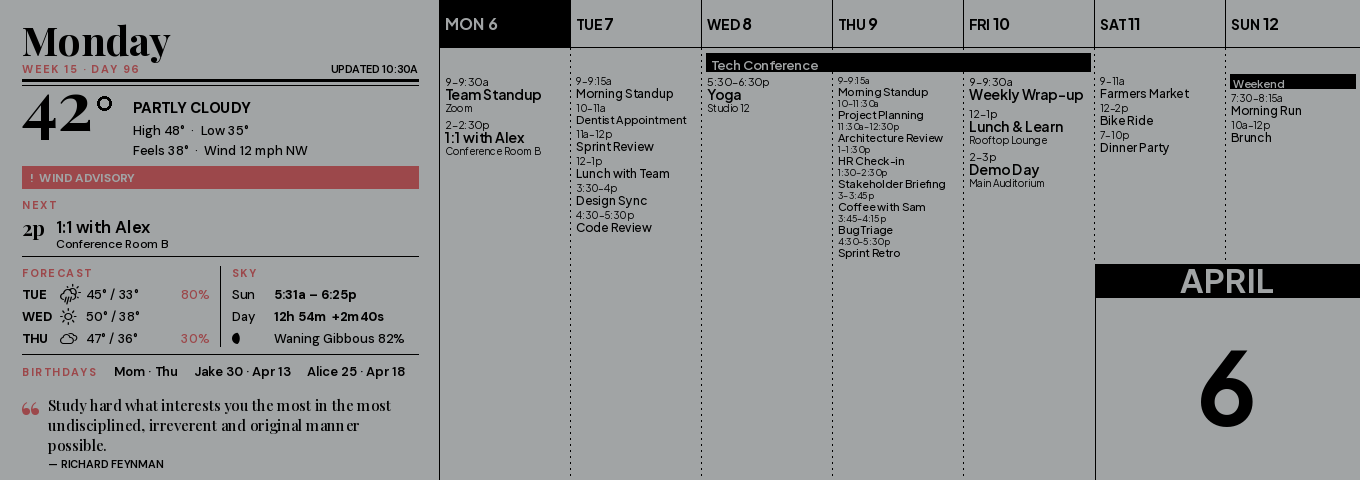
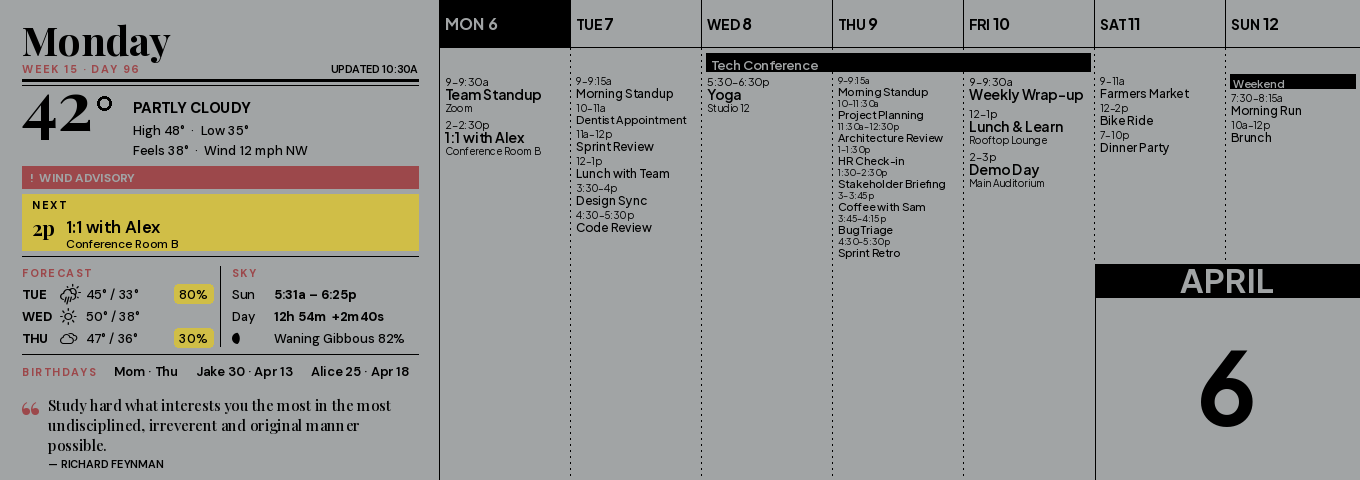
wide_week rail: yellow as a highlighter behind ink type
The rail's colour now has one job per ink. Red (the primary accent) keeps
labels and warnings; yellow (the resolved accent_warn) is used only as a
fill behind black type: a band under NOW/NEXT, chips under each rainy
day's chance of rain (previously red text, which diluted the alert red),
and a birthday falling today. Never yellow type or rules — the weakest
contrast the four inks give. highlight() returns None where accent_warn
resolves to ink, so on a monochrome panel the fills drop out and the type
stays black. The theme's secondary accent is left alone on purpose: the
week grid draws its weekend headers' text in it.

Claude-Session: https://claude.ai/code/session_014tzDQ2KFBUpoGD9KjokJEt

Changed region(s): [[0.0, 0.4062, 0.3088, 0.5312], [0.1235, 0.5938, 0.3088, 0.7812]]

diff --git a/src/render/components/wide_week_rail_panel.py b/src/render/components/wide_week_rail_panel.py
@@ -23,9 +23,14 @@ quote. Top to bottom:
   * **Quote** — the day's quote set large, a hanging accent quote mark, the
     author in small caps.
 
-Everything is drawn with the theme style's ``fg``/``bg`` and its primary
-accent, so the rail renders in red and black on a colour panel and in ink on a
-monochrome one, like the grid beside it.
+Colour has two jobs here, one per accent ink. **Red** (the primary accent) is
+for labels and warnings: section labels, the stale mark, the alert bar.
+**Yellow** (the resolved ``accent_warn``) is a highlighter and never ink —
+yellow type or rules on paper are the weakest contrast the four inks give, so
+it only ever sits *behind* black type: the NOW/NEXT band, the chance-of-rain
+chips, a birthday falling today. On a monochrome panel ``accent_warn`` resolves
+to ink, ``highlight()`` returns ``None``, and each of those falls back to plain
+black type on paper.
 """
 
 from __future__ import annotations
@@ -60,6 +65,7 @@ FORECAST_DAYS = 3
 QUOTE_PTS = (19, 17, 16, 15)  # tried largest first until the quote fits its space
 AUTHOR_H = 16
 SKY_LABEL_W = 42
+BAND_INSET = 10  # the NOW/NEXT type's inset inside its highlighter band
 
 # Section tops, relative to the region. Fixed rather than flowed, so the rules
 # land in the same place every day and the column reads as a page, not a list.
@@ -116,8 +122,8 @@ def when_label(kind: str, evt: CalendarEvent, now: datetime) -> str:
     return f"{evt.start.strftime('%a')} {fmt_time(evt.start)}"
 
 
-def birthday_line(birthdays: list[Birthday], today: date) -> str:
-    """Birthdays in the next two weeks, soonest first: ``Mom · Thu   Jake 30 · Mon``."""
+def birthday_entries(birthdays: list[Birthday], today: date) -> list[tuple[str, bool]]:
+    """Birthdays in the next two weeks, soonest first, as ``(text, is_today)``."""
     rows = []
     for b in birthdays:
         when = next_birthday(b.date, today)
@@ -133,9 +139,17 @@ def birthday_line(birthdays: list[Birthday], today: date) -> str:
         else:
             label = when.strftime("%b %-d")
         name = b.name if b.age is None else f"{b.name} {b.age}"
-        rows.append((when, f"{name} · {label}"))
+        rows.append((when, f"{name} · {label}", days == 0))
     rows.sort(key=lambda r: r[0])
-    return "     ".join(text for _, text in rows)
+    return [(text, is_today) for _, text, is_today in rows]
+
+
+BIRTHDAY_GAP = 18
+
+
+def birthday_line(birthdays: list[Birthday], today: date) -> str:
+    """The birthday entries as one line: ``Mom · Thu     Jake 30 · Mon``."""
+    return "     ".join(text for text, _ in birthday_entries(birthdays, today))
 
 
 def sky_rows(
@@ -209,11 +223,24 @@ def fit_quote(text: str, width: int, height: int) -> tuple[int, list[str]]:
 # ---------------------------------------------------------------------------
 
 
-def _label(draw, x: float, y: float, text: str, style: ThemeStyle) -> None:
-    """A section label: small caps in the accent, letter-spaced."""
+def highlight(style: ThemeStyle):
+    """The highlighter fill (yellow), or ``None`` on a plate that has no such ink.
+
+    ``accent_warn`` resolves to yellow on the colour panels and to ink on a
+    monochrome one; a fill in ink behind ink type would black the type out.
+    """
+    fill = style.accent_warn
+    if fill is None or fill == style.fg:
+        return None
+    return fill
+
+
+def _label(draw, x: float, y: float, text: str, style: ThemeStyle, fill=None) -> None:
+    """A section label: small caps, letter-spaced, in the accent unless *fill* says."""
     font = fonts.dm_bold(11)
+    fill = style.primary_accent_fill() if fill is None else fill
     for ch in text:
-        draw.text((x, y), ch, font=font, fill=style.primary_accent_fill())
+        draw.text((x, y), ch, font=font, fill=fill)
         x += font.getlength(ch) + 1.6
 
 
@@ -319,23 +346,33 @@ def draw_wide_week_rail(
 
     # Now / next ---------------------------------------------------------------
     ny = top + NEXT_Y
+    hi = highlight(style)
+    if hi is not None:
+        # The rail's most glanceable line gets the highlighter: black type on
+        # a yellow band, flush with the column like the alert bar above it.
+        draw.rectangle((x0, ny - 4, x1, top + NEXT_RULE_Y - 6), fill=hi)
     found = now_or_next(data.events, local_now)
+    # Red on yellow vibrates; on the band the label is set in ink, and the
+    # section is inset so its type does not touch the band's edges.
+    label_fill = fg if hi is not None else None
+    inset = BAND_INSET if hi is not None else 0
+    nx, nx1 = x0 + inset, x1 - inset
     if found is None:
-        _label(draw, x0, ny, "NEXT", style)
-        draw.text((x0, ny + 18), "Nothing scheduled", font=fonts.playfair_medium(20), fill=fg)
+        _label(draw, nx, ny, "NEXT", style, label_fill)
+        draw.text((nx, ny + 18), "Nothing scheduled", font=fonts.playfair_medium(20), fill=fg)
     else:
         kind, evt = found
-        _label(draw, x0, ny, kind, style)
+        _label(draw, nx, ny, kind, style, label_fill)
         when = when_label(kind, evt, local_now)
         when_font = fonts.playfair_bold(20)
-        draw.text((x0, ny + 16), when, font=when_font, fill=fg)
-        tx = x0 + text_width(draw, when, when_font) + 12
+        draw.text((nx, ny + 16), when, font=when_font, fill=fg)
+        tx = nx + text_width(draw, when, when_font) + 12
         draw_text_truncated(
-            draw, (tx, ny + 18), evt.summary, fonts.dm_semibold(17), x1 - tx, fill=fg
+            draw, (tx, ny + 18), evt.summary, fonts.dm_semibold(17), nx1 - tx, fill=fg
         )
         if evt.location:
             draw_text_truncated(
-                draw, (tx, ny + 38), evt.location, fonts.dm_medium(12), x1 - tx, fill=fg
+                draw, (tx, ny + 38), evt.location, fonts.dm_medium(12), nx1 - tx, fill=fg
             )
     _hairline(draw, x0, x1, top + NEXT_RULE_Y, style)
 
@@ -355,13 +392,16 @@ def draw_wide_week_rail(
             hl = f"{round(day.high)}° / {round(day.low)}°"
             draw.text((x0 + 64, ry), hl, font=row_font, fill=fg)
             if day.precip_chance is not None and day.precip_chance >= 0.2:
+                # Rain is not an alarm, so not red: a yellow chip behind ink
+                # type, or plain ink where the panel has no yellow.
                 pct = f"{round(day.precip_chance * 100)}%"
-                draw.text(
-                    (mid - 10 - text_width(draw, pct, row_font), ry),
-                    pct,
-                    font=row_font,
-                    fill=accent,
-                )
+                pw = text_width(draw, pct, row_font)
+                px = mid - 12 - pw
+                if hi is not None:
+                    draw.rounded_rectangle(
+                        (px - 5, ry - 2, px + pw + 5, ry + 17), radius=4, fill=hi
+                    )
+                draw.text((px, ry), pct, font=row_font, fill=fg)
     sx = mid + 12
     rows = sky_rows(weather, today, latitude, longitude, tz)
     for i, (label, value) in enumerate(rows):
@@ -380,11 +420,21 @@ def draw_wide_week_rail(
 
     # Birthdays ------------------------------------------------------------------
     by = top + BIRTHDAY_Y
-    line = birthday_line(data.birthdays, today)
-    if line:
+    entries = birthday_entries(data.birthdays, today)
+    if entries:
         _label(draw, x0, by + 2, "BIRTHDAYS", style)
+        bfont = fonts.dm_semibold(13)
         lx = x0 + 92
-        draw_text_truncated(draw, (lx, by), line, fonts.dm_semibold(13), x1 - lx, fill=fg)
+        for i, (text, is_today) in enumerate(entries):
+            tw = text_width(draw, text, bfont)
+            if lx + tw > x1:
+                if i == 0:  # a single entry too long for the line is cut, not dropped
+                    draw_text_truncated(draw, (lx, by), text, bfont, x1 - lx, fill=fg)
+                break
+            if is_today and hi is not None:
+                draw.rounded_rectangle((lx - 5, by - 2, lx + tw + 5, by + 17), radius=4, fill=hi)
+            draw.text((lx, by), text, font=bfont, fill=fg)
+            lx += tw + BIRTHDAY_GAP
 
     # Quote ------------------------------------------------------------------------
     quote = quote_for(today, refresh=quote_refresh, now=now, path=quotes_path)

diff --git a/tests/test_wide_week_rail.py b/tests/test_wide_week_rail.py
@@ -14,11 +14,11 @@ import pytest
 
 from src.config import DisplayConfig
 from src.data.models import Birthday, CalendarEvent, DashboardData, WeatherAlert, WeatherData
-from src.display.driver import image_hash
+from src.display.driver import WAVESHARE_G_PALETTE, image_hash
 from src.dummy_data import generate_dummy_data
 from src.render.canvas import render_dashboard
 from src.render.components import wide_week_rail_panel as rail
-from src.render.theme import load_theme
+from src.render.theme import INKY_YELLOW, load_theme
 from tests.inkutils import ink
 
 NATIVE = DisplayConfig(provider="waveshare", model="epd7in5_V2", width=1360, height=480)
@@ -46,6 +46,20 @@ def _weather(**kw) -> WeatherData:
     )
     base.update(kw)
     return WeatherData(**base)
+
+
+G = DisplayConfig(provider="waveshare", model="epd10in85g", width=1360, height=480)
+YELLOW = WAVESHARE_G_PALETTE[2]  # the G panel's inks: black, white, yellow, red
+assert INKY_YELLOW == 2
+
+
+def _render_g(data: DashboardData, now: datetime = NOW):
+    data.fetched_at = now
+    return render_dashboard(data, G, theme=load_theme("wide_week")).convert("RGB")
+
+
+def _yellow(img, box) -> int:
+    return sum(n for n, px in img.crop(box).getcolors(1 << 16) if px == YELLOW)
 
 
 def _render(data: DashboardData, now: datetime = NOW):
@@ -120,6 +134,12 @@ class TestBirthdayLine:
         assert rail.birthday_line(bdays, today) == (
             "Me · today     Kid 6 · tomorrow     Mom · Thu     Alice 26 · Apr 18"
         )
+
+    def test_entries_flag_today(self):
+        entries = rail.birthday_entries(
+            [Birthday("Mom", date(1960, 4, 9)), Birthday("Me", date(1985, 4, 6))], date(2026, 4, 6)
+        )
+        assert entries == [("Me · today", True), ("Mom · Thu", False)]
 
     def test_none_in_range_is_empty(self):
         assert rail.birthday_line([Birthday("X", date(1990, 9, 1))], date(2026, 4, 6)) == ""
@@ -205,3 +225,48 @@ class TestRender:
         assert ink(img, (RAIL.w, 60, RAIL.w + 4, 200)) == ink(
             _render(DashboardData()), (RAIL.w, 60, RAIL.w + 4, 200)
         )
+
+
+class TestYellowHighlighter:
+    """Yellow is only ever a fill behind ink type, and only where the panel has it."""
+
+    FORECAST = (0, rail.GRID_Y, RAIL.w // 2, rail.GRID_RULE_Y)
+    BIRTHDAYS = (0, rail.BIRTHDAY_Y - 3, RAIL.w - 2, rail.BIRTHDAY_Y + 19)
+
+    def test_resolves_to_none_where_it_would_be_ink(self):
+        style = load_theme("wide_week").style
+        assert rail.highlight(style) is None  # unresolved: accent_warn unset
+        from dataclasses import replace
+
+        assert rail.highlight(replace(style, accent_warn=style.fg)) is None
+        assert rail.highlight(replace(style, accent_warn=(255, 255, 0))) == (255, 255, 0)
+
+    def test_now_next_sits_on_a_yellow_band(self):
+        img = _render_g(DashboardData(events=[_event("Review", datetime(2026, 4, 6, 14))]))
+        band = NEXT_BAND
+        area = (band[2] - band[0]) * (band[3] - band[1])
+        assert _yellow(img, band) > area * 0.6
+
+    def test_rain_chips_only_on_wet_days(self):
+        from src.data.models import DayForecast
+
+        def forecast(pop):
+            days = [DayForecast(date(2026, 4, 7 + i), 50, 40, "10d", "rain", pop) for i in range(3)]
+            return DashboardData(weather=_weather(forecast=days))
+
+        dry = _render_g(forecast(0.05))
+        wet = _render_g(forecast(0.8))
+        assert _yellow(dry, self.FORECAST) == 0
+        assert _yellow(wet, self.FORECAST) > 3 * 300
+
+    def test_a_birthday_today_is_highlighted_and_others_are_not(self):
+        soon = _render_g(DashboardData(birthdays=[Birthday("Mom", date(1960, 4, 9))]))
+        today = _render_g(DashboardData(birthdays=[Birthday("Mom", date(1960, 4, 6))]))
+        assert _yellow(soon, self.BIRTHDAYS) == 0
+        assert _yellow(today, self.BIRTHDAYS) > 300
+
+    def test_monochrome_keeps_the_type_without_fills(self):
+        img = _render(DashboardData(events=[_event("Review", datetime(2026, 4, 6, 14))]))
+        # No band: the NEXT area is mostly paper, with the type still in ink.
+        area = (NEXT_BAND[2] - NEXT_BAND[0]) * (NEXT_BAND[3] - NEXT_BAND[1])
+        assert 200 < ink(img, NEXT_BAND) < area * 0.3

diff --git a/CLAUDE.md b/CLAUDE.md
@@ -498,7 +498,7 @@ default to `None` and fall back gracefully so adding a new field never breaks ex
 - Supported display providers/models: `waveshare` → `epd7in5` (640×384), `epd7in5_V2` (800×480, default), `epd7in5b_V2` (800×480, tri-colour, rendered B/W), `epd7in5_HD` (880×528), `epd13in3k` (960×680), `epd10in85g` (1360×480, four inks); `inky` → `impression_7_3_2025` (800×480). Set via `display.provider` + `display.model`; canvas renders at 800×480 (1360×480 for the `wide_*` themes) and scales when needed. **Every Waveshare entry must name a module that exists in the vendor `waveshare_epd` library and carry that driver's `EPD_WIDTH`/`EPD_HEIGHT`** — `epd13in3k` was registered at 1600×1200 while the driver is 960×680, and `getbuffer()` silently returns a blank buffer on a size mismatch, so the panel stayed white with no error; `epd9in7` and `epd7in5_V3` were listed but no such modules exist upstream (the 9.7" panel is IT8951-driven), so selecting them failed at import (#266). Check the vendor repo before adding a model.
 - **The Waveshare 10.85" (G) is a colour model inside the Waveshare provider.** `WAVESHARE_COLOR_MODELS` in `src/display/driver.py` maps `epd10in85g` to `WAVESHARE_G_PALETTE` (black, white, yellow, red — the order the G drivers' `getbuffer()` packs, 2 bits per pixel); its `DisplaySpec` has `render_mode="RGB"`, `palette` set, `supports_partial_refresh=False`, and `is_color` true. Themes are drawn in colour for it exactly as for Inky, but against `WAVESHARE_G_STYLE_PALETTE` (`src/render/quantize.py`): the six Spectra-6 style indices with blue and green folded onto black, and pure white as the ground rather than Inky's measured (161,164,165) — the ground matters because the final `quantize_to_palette_nearest()` is a hard cut, and pure white puts an antialiased glyph edge at the same mid-grey threshold the 1-bit path uses, so type keeps its weight. For neutral greys the nearest of the four inks is provably black or white (yellow needs the blue channel low, red needs green low), so no resize blur or antialiasing ever lands on a coloured ink; that is why the snap is not a dither. `WaveshareDisplay` forces `enable_partial=False` for colour models (the G drivers have no `init_fast()`) and hands the RGB image to `epd.getbuffer()`, whose own palette mapping is then exact. The module path `waveshare_epd.epd10in85g` follows the G-family convention (`epd7in3g`, `epd4in37g`) — it is the one line to touch if the panel's shipped library names it differently.
 - **`display.scaling` decides how an off-size canvas reaches the panel** (`fit_canvas()` in `src/display/backend.py`). Every version so far stretched, and `auto` (the default) still does unless `distortion()` — the ratio between the panel's aspect and the canvas's — exceeds `FIT_DISTORTION_THRESHOLD` (4/3): a 4:3 `epd13in3k` is 1.25 and renders byte-identically to before, the 1360×480 strip is 1.7 and fits. `fit` pads with the theme's `bg`, passed to the backend as `background=` in the canvas's own mode (`pad_value()` converts it); `stretch` and `fit` are explicit overrides, and an unknown value behaves as `auto` at render time while `validate_config()` reports it. The backend tests build their config as a `MagicMock`, which is why `resolve_scaling()` treats anything but the two explicit strings as auto rather than raising.
-- **The `wide_*` themes declare a 1360×480 canvas** (`wide_week`, `wide_day`, `wide_forecast`, `wide_horizon`, `halftone_agenda_wide`) and are the reason previews are rendered at the theme's canvas size when its *shape* differs from the panel's (`scripts/build_previews.py` swaps `cfg.display` width/height for the layout's only on an aspect mismatch — a supersampled 1600×960 canvas keeps the panel's 800×480 and its downsample) — on an 800×480 config they letterbox to a 800×282 band, which is what the pixel-snapshot and idle-tick suites hash. They are kept out of a random rotation on a panel of the other shape: `random_theme.eligible_themes(..., panel=)` drops any theme whose canvas would be fitted with padding there (`theme_fits_panel`, the same `FIT_DISTORTION_THRESHOLD` test `display.scaling: auto` applies), and `services/theme.py` and `validate_config` pass the configured panel. `OutputService` keys its default cooldown on the display spec, not the provider string, so a colour Waveshare model gets Inky's 60 s rather than the mono 0 s. `primitives.next_birthday()` is the one home of the Feb 29 → Feb 28 rollover; `birthday_bar`, `almanac`, `wide_day_panel` and `halftone_agenda_wide_panel` all call it. `wide_week` is the standard `week_view` on the right (920 px, full height, no header) beside `wide_week_rail_panel.py`, a 440-px broadsheet rail (Playfair Display, accent small-caps labels, hairline rules; section tops are fixed constants so the rules land in the same place daily) whose NOW/NEXT line is its one clock-driven element, moving only at event boundaries (hence `EXTRA_EVENT_DAYS["wide_week"] = 1`); the rail's quote is Playfair **Medium**, since the Regular's hairlines break up on a 1-bit plate, and its sky rows reuse `wide_horizon_panel.sun_zone` for naive preview clocks; `wide_day` (`wide_day_panel.py`) packs bars into lanes by `pack_lanes()` over *bar-plus-label* pixel extents, not time spans — a thirty-minute meeting is 24 px on a sixteen-hour axis, so packing by time alone left a busy day as one lane of anonymous boxes — and is in `TIME_DRIVEN` (NOW marker) and `THEMES_NEEDING_TOMORROW` (its UP NEXT rail). `wide_forecast` (`wide_forecast_panel.py`) is idle-stable; its yellow precipitation fill is drawn only when `secondary_accent_fill()` differs from `fg` (`_tint()`), because on a monochrome plate a fill behind ink text is unreadable. All three name only red/yellow/black accents so the Inky preview and the four-ink panel agree.
+- **The `wide_*` themes declare a 1360×480 canvas** (`wide_week`, `wide_day`, `wide_forecast`, `wide_horizon`, `halftone_agenda_wide`) and are the reason previews are rendered at the theme's canvas size when its *shape* differs from the panel's (`scripts/build_previews.py` swaps `cfg.display` width/height for the layout's only on an aspect mismatch — a supersampled 1600×960 canvas keeps the panel's 800×480 and its downsample) — on an 800×480 config they letterbox to a 800×282 band, which is what the pixel-snapshot and idle-tick suites hash. They are kept out of a random rotation on a panel of the other shape: `random_theme.eligible_themes(..., panel=)` drops any theme whose canvas would be fitted with padding there (`theme_fits_panel`, the same `FIT_DISTORTION_THRESHOLD` test `display.scaling: auto` applies), and `services/theme.py` and `validate_config` pass the configured panel. `OutputService` keys its default cooldown on the display spec, not the provider string, so a colour Waveshare model gets Inky's 60 s rather than the mono 0 s. `primitives.next_birthday()` is the one home of the Feb 29 → Feb 28 rollover; `birthday_bar`, `almanac`, `wide_day_panel` and `halftone_agenda_wide_panel` all call it. `wide_week` is the standard `week_view` on the right (920 px, full height, no header) beside `wide_week_rail_panel.py`, a 440-px broadsheet rail (Playfair Display, accent small-caps labels, hairline rules; section tops are fixed constants so the rules land in the same place daily) whose NOW/NEXT line is its one clock-driven element, moving only at event boundaries (hence `EXTRA_EVENT_DAYS["wide_week"] = 1`); the rail's quote is Playfair **Medium**, since the Regular's hairlines break up on a 1-bit plate, and its sky rows reuse `wide_horizon_panel.sun_zone` for naive preview clocks; colour is split by ink — red (primary accent) for labels and warnings, yellow (the resolved `accent_warn`) **only as a fill behind ink type** (NOW/NEXT band, rain chips, a birthday today), never as type or rules, and `highlight()` returns `None` where `accent_warn` resolves to `fg` (mono) so the fills drop out rather than blacking the type out — the grid's `secondary_accent_fill()` colours the weekend headers' *text*, so switching the theme's secondary accent to yellow would have put yellow type in the grid; `wide_day` (`wide_day_panel.py`) packs bars into lanes by `pack_lanes()` over *bar-plus-label* pixel extents, not time spans — a thirty-minute meeting is 24 px on a sixteen-hour axis, so packing by time alone left a busy day as one lane of anonymous boxes — and is in `TIME_DRIVEN` (NOW marker) and `THEMES_NEEDING_TOMORROW` (its UP NEXT rail). `wide_forecast` (`wide_forecast_panel.py`) is idle-stable; its yellow precipitation fill is drawn only when `secondary_accent_fill()` differs from `fg` (`_tint()`), because on a monochrome plate a fill behind ink text is unreadable. All three name only red/yellow/black accents so the Inky preview and the four-ink panel agree.
 - **Art regions are the one place a colour panel dithers.** A colour backend snaps every pixel to the nearest ink (`quantize_to_palette_nearest` on the G panel, the Inky driver at write time), which flattens an illustration's gradient to one ink while the same theme's greyscale path keeps its engraving. `RenderContext.dither_regions` is a list the adapter fills from the panel's pure `art_rect(region)` (`halftone`, `halftone_agenda`, `halftone_agenda_wide` and `day_arc` declare their art panes; the panel itself never sees the list, so it stays a pure function of its inputs), and `canvas.render_dashboard` passes it to `resize_and_finalize(..., dither_regions=...)`. `backend.dither_art_regions()` maps each rectangle through `placement()` — the same arithmetic `fit_canvas` uses, so a region declared in canvas coordinates lands on the fitted or stretched plate — cuts it from the resized canvas *before* the snap, Floyd-Steinberg-diffuses it onto the inks with `quantize_to_palette_fs`, and pastes it over the snapped plate. Floyd-Steinberg, not ordered Bayer: it is what the themes' L-mode path already uses, so the engraving matches across panels, and diffusion has no error to spread on an exact ink, so a solid yellow disc stays solid where a Bayer offset would speckle it. On Inky the target palette is `INKY_SPECTRA6_PALETTE` (the driver's measured values) so the write-time nearest mapping is the identity on the region. On the G panel the art helpers still fill with the measured Spectra values (`skyart.accent_yellow`, `artkit.accent_red` don't know the panel), so `G_EXACT_REMAP` substitutes each Spectra-6 value with the G ink at the same index *before* diffusion — diffusing (208,190,71) against (255,255,0) turned a solid sun disc 47% yellow. Neutral pixels diffuse against black and white only (`NEUTRAL_SPREAD`); diffusing them against the whole palette let accumulated error drift in hue and sprinkled a night sky with coloured dots. The mixing widens the perceived gamut only *inside* the hull of the inks — orange, pink, maroon, olive and greys on the G panel — and can never produce a blue or green there. Declaring a region that contains type will speckle it; the mono `WaveshareBackend` ignores the list because its whole plate already dithers.
 - **`wide_horizon` puts the next 72 hours on one axis** (`wide_horizon_panel.py`). The window starts at `window_start(now)` — the 3-hour forecast slot holding now — so the clock moves the plate at most eight times a day and the theme stays out of `TIME_DRIVEN`; the TODAY→TONIGHT switch keys on the slot for the same reason (and `header_label()` sets today's name as a caption in the date face when its slice is too narrow for a headline — never a shrunken headline, never the short weekday), and the hero's "updated" caption reads `content_time`. `TimeAxis` is piecewise-linear by clock hour (`hour_weight`: 23:00–06:00 at `NIGHT_WEIGHT`), ~19 px per waking hour against ~16 linear. The sky's colour per column is `astronomy.solar_altitude` at that column's time plus `HORIZON_GLOW_DEG` toward the band's bottom, mapped by `sky_field()` to **ordered dithers between pairs of inks** (white/yellow, yellow/red, red/black on colour; one black/white ramp on mono) from an 8×8 Bayer phased to canvas coordinates. Everything on the plate is an exact ink — tones are dithered here and type is set with `draw.fontmode = "1"` — so the four-ink snap and the mono threshold are the identity at native size. The sky is deliberately **not** an art region: `dither_art_regions()` is not the identity on a tile of exact inks (its neutral pass Floyd-Steinbergs the tile's luminance, flipping black/white pixels beside red and yellow), so declaring it speckled the plate on the panel it was drawn for — `test_native_pipeline_changes_nothing_but_the_ink_snap` pins this. The theme declares `ordered` quantization so a *scaled mono* panel re-screens rather than flattening a blurred dither (which also derives it out of partial refresh); small type on a scaled plate comes out screened, the accepted cost of a strip theme on the wrong shape. The temperature comes from `WeatherData.hourly` (the OWM 3-hour grid, kept by `weather._parse_hourly`); `daily_extremes` labels only real turning points, since the window cuts days at both ends. OWM's grid starts at the first 3-hour **UTC** boundary after the request, so it never lines up with the local slot the window opens on; `lead_in()` fills the gap with stand-in slots carrying the current reading and icon, and `dummy_data._dummy_hourly` starts its grid the same way OWM does so previews exercise it. A slot is three hours of real time but the axis is the wall clock, so every consumer takes slot ends from `slot_spans()` (each ends where the next begins, trusted within an hour of 3 h) — `start + 3 h` left an hour of the plate blank at spring-forward and overlapped slots at fall-back. Stand-ins are the reading now held flat, so `daily_extremes` and `outlook` take `real_from` (the first real slot) and never label or report one — without it an evening plate showed its flat stand-in as the day's "high". High/low labels go through `place_label()`, which slides a label off any sun or moon box (`_draw_suns`/`_draw_moons` return boxes, not x) toward the side nearer its point. Undrawn items (timed lanes past the space, all-day chips past `ALLDAY_MAX_ROWS`) are counted as `+N more` per day in a footer row reserved (`OVERFLOW_H`) only when something is hidden. Clouds/rain/snow/storm/fog are drawn per slot from its icon (`sky_kind`), seeded by the slot's clock hour so they travel with the window; an overcast or wet slot hides the sun at noon and the moon at transit (`sun_hidden`), and scattered clouds keep `SUN_CLEARANCE` off both. With a naive render clock (previews, snapshots) `sun_zone()` places the sun in the whole-hour zone the longitude implies instead of UTC. `EXTRA_EVENT_DAYS["wide_horizon"] = 3`.
 - **`halftone_agenda_wide` is `halftone_agenda` drawn for the strip, not a copy of it.** `halftone_agenda_wide_panel.py` imports the original's `_draw_weather_band`, `_sun_times`, `_clock`, `event_times`, `inline_range`, `two_line_time_fits`, `past_screen` and `_location_text` (private names, deliberately — the two plates must read out the same things, and a second copy of the band or the time-cell rules would drift). The agenda pane itself is this plate's own (`_draw_wide_agenda`), and it deliberately has **no state treatments** — no perforated past rows, no inverted running event, no next-up accent, no `NEXT` figure in the header: on the four-ink panel every repaint is a twenty-second colour flash and each treatment repaints at every event boundary, so the day is shown whole and the same from dawn to dusk, with the after-dark rollover the one clock-driven change (one repaint a day). `tests/test_halftone_agenda_wide_theme.py` pins that a render before, during and after an event is byte-identical. Colour keys on the *kind* of event instead — a timed event's tick is `artkit.accent_yellow_solid`, an all-day event's `accent_red` (outlined in ink on mono, where both accents are ink) — which costs no repaints; the colour-panel variant of that test pins it. Use `accent_yellow_solid`, not `skyart.accent_yellow`, for marks and type: the latter's L-mode fallback is a light grey that `harden_typeset` snaps to paper. What 520 px of width pays for — a header dateline with the day's totals (`booked_minutes` counts overlaps once), a **schedule strip** (`_draw_schedule_strip`, solid blocks whatever the hour), a duration column, `— Nh Nm free` gap markers between events at least `GAP_MIN_MINUTES` apart (`gap_after` measures from the latest end so far, so a long event swallowing a short one reports no phantom gap), and time cells in **Antonio** (condensed, so titles gain the width). Its tiers are `_WIDE_TIERS`, chosen by `wide_metrics()` on rows *plus* gap markers, which are dropped before the type shrinks past 18 px. It adds the third pane: a rail with an alert bar, the next day's events, the forecast, birthdays, and an air-and-moon foot anchored to the rail's bottom (`FOOT_H`) so it can never be pushed off by a long birthday list — the birthdays cell takes whatever is left above it. The rail shows the day after tomorrow once the agenda has rolled over, so the theme needs two extra days of events: `src/app.py` now carries `EXTRA_EVENT_DAYS` (theme → days past the standard week) with `THEMES_NEEDING_TOMORROW` derived from its keys, and `_event_window_for_theme` returns `7 + extra`. Rail rows are 24 px with a 14-pt Righteous label over a 3-px Bayer rule; the whole rail is hardened like the agenda pane. It is in `DECLINES_PARTIAL` in `tests/test_theme_partial_refresh.py` for the same reason its sibling is.

diff --git a/docs/themes.md b/docs/themes.md
@@ -500,7 +500,7 @@ The 440 px to its left is laid out like a broadsheet column, in Playfair Display
 - **Birthdays:** those in the next two weeks, on one line.
 - **Quote:** the day's quote set large, with a hanging accent quote mark.
 
-The NOW/NEXT line is the only thing on the plate that reads the clock, and it moves only when an event starts or ends. Because it reaches into next week on a Sunday evening, the theme fetches one extra day of events. Red and black: red for the rail's labels, the alert bar and the grid's accents; on a monochrome panel both are ink. On an 800 × 480 panel the theme renders as a letterboxed band. See [Panoramic Themes](wide-themes.md#wide_week) for the four-ink render.
+The NOW/NEXT line is the only thing on the plate that reads the clock, and it moves only when an event starts or ends. Because it reaches into next week on a Sunday evening, the theme fetches one extra day of events. Colour has one job per ink. Red is for labels and warnings: the rail's section labels, the alert bar and the grid's accents. Yellow is a highlighter only, never type or rules, since yellow on paper is the weakest contrast the panel offers. It sits behind black type in three places: a band under NOW/NEXT, chips under each rainy day's chance of rain, and a birthday falling today. On a monochrome panel the reds are ink and the yellow fills drop out, leaving plain black type. On an 800 × 480 panel the theme renders as a letterboxed band. See [Panoramic Themes](wide-themes.md#wide_week) for the four-ink render.
 
 [![Wide week theme](../assets/previews/theme_wide_week.png)](../assets/previews/theme_wide_week.png)
 

diff --git a/docs/wide-themes.md b/docs/wide-themes.md
@@ -147,7 +147,9 @@ panel's full height, beside an editorial rail. The rail is set in Playfair Displ
 with red small-caps labels and hairline rules: the weekday masthead, the weather
 now, what is on or next, three forecast days beside the sky, the next two weeks'
 birthdays, and the day's quote. Red carries the labels, the alert bar and the
-grid's accents; everything else is ink. [Full description ↗](themes.md#wide_week)
+grid's accents. Yellow is used only as a highlighter behind black type: the
+NOW/NEXT band, the chance-of-rain chips, and a birthday that falls today.
+[Full description ↗](themes.md#wide_week)
 
 [![Wide week theme on the four-ink panel](../assets/previews/theme_wide_week_g.png)](../assets/previews/theme_wide_week_g.png)
 

diff --git a/CHANGELOG.md b/CHANGELOG.md
@@ -47,7 +47,10 @@ The format is based on [Keep a Changelog](https://keepachangelog.com/).
   beside sunrise, sunset, day length and the moon, the next two weeks'
   birthdays, and the day's quote. The full-width header bar is gone; its
   "updated" and stale marks are in the masthead. The theme now fetches one
-  extra day of events so NEXT can reach Monday from a Sunday evening.
+  extra day of events so NEXT can reach Monday from a Sunday evening. On the
+  colour panels the rail uses yellow as a highlighter behind black type (a
+  NOW/NEXT band, chance-of-rain chips, a birthday today) and red for labels and
+  warnings; on a monochrome panel the fills drop out.
 
 ## [6.0.0] - 2026-09-26
 
